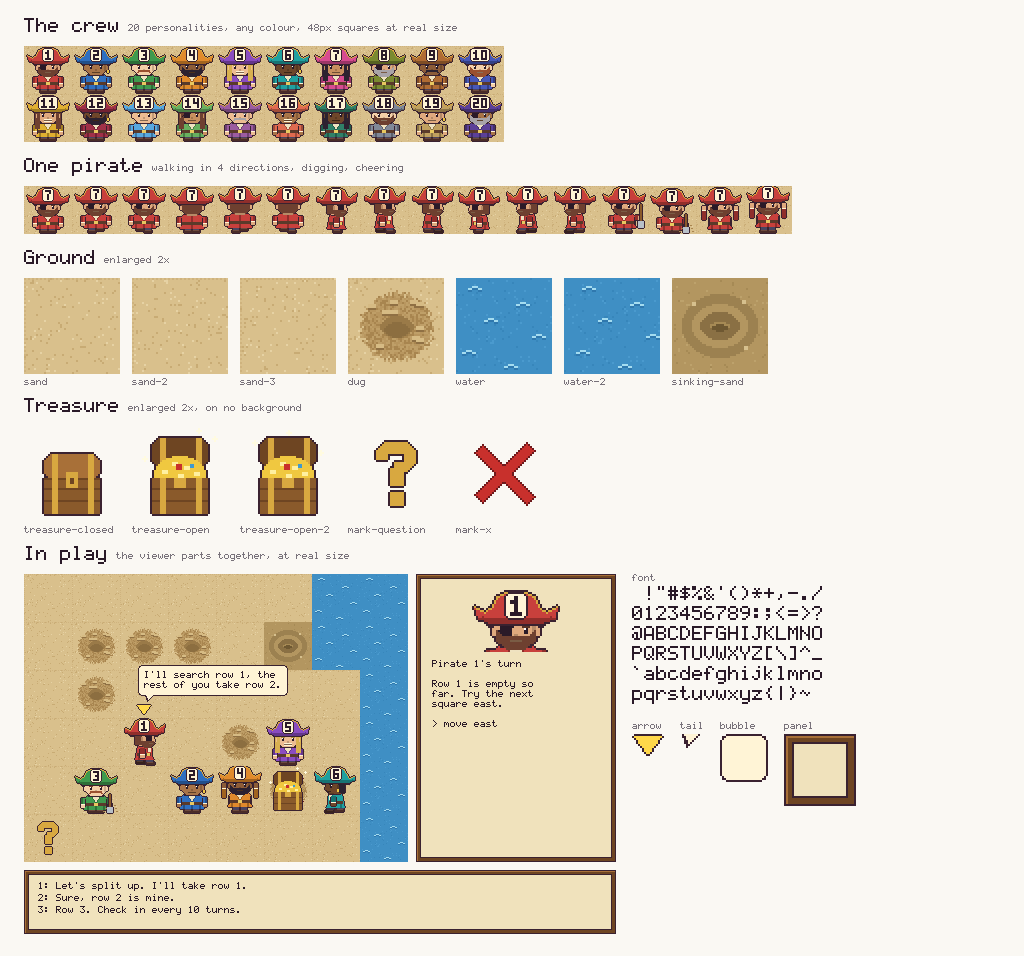
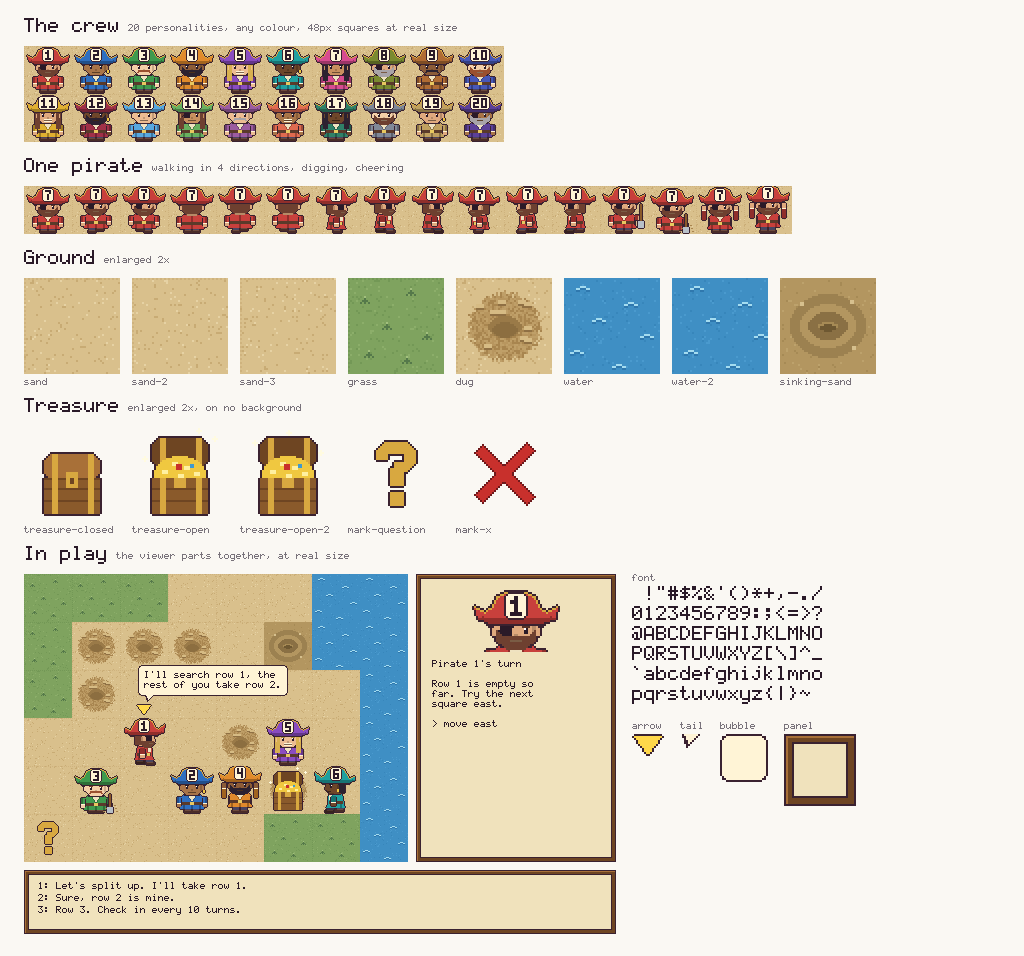
feat(assets): a grass tile, walkable like sand, to break up the ground

diff --git a/assets/tiles.py b/assets/tiles.py
@@ -19,18 +19,32 @@ def _scatter(image, colours, count, seed):
         pixels[rng.randrange(SIZE), rng.randrange(SIZE)] = rgba(rng.choice(colours))
 
 
-def _edges(image):
+def _edges(image, colour=_SAND_EDGE):
     """A faint dotted edge, so a reader can count squares without a heavy grid."""
     pixels = image.load()
     for i in range(0, SIZE, 2):
-        pixels[i, 0] = rgba(_SAND_EDGE)
-        pixels[0, i] = rgba(_SAND_EDGE)
+        pixels[i, 0] = rgba(colour)
+        pixels[0, i] = rgba(colour)
 
 
 def sand(seed=11):
     image = Image.new("RGBA", (SIZE, SIZE), rgba(_SAND))
     _scatter(image, _SAND_MARKS, 150, seed)
     _edges(image)
+    return image
+
+
+def grass():
+    """Soft green with a few tufts: walkable, there to break up the sand."""
+    image = Image.new("RGBA", (SIZE, SIZE), rgba("#7fa35f"))
+    _scatter(image, ("#739856", "#739856", "#8cae6a"), 170, 41)
+    pixels = image.load()
+    tuft = ((0, 0), (1, -1), (2, -2), (3, -1), (4, 0), (2, -1), (2, 0))
+    for x0, y0 in [(6, 12), (29, 8), (17, 25), (37, 30), (8, 39), (27, 42)]:
+        for dx, dy in tuft:
+            pixels[x0 + dx, y0 + dy] = rgba("#55794a")
+        pixels[x0 + 2, y0 - 3] = rgba("#a3c07e")
+    _edges(image, "#739856")
     return image
 
 
@@ -92,6 +106,7 @@ TILES = {
     "sand": sand,
     "sand-2": lambda: sand(12),
     "sand-3": lambda: sand(13),
+    "grass": grass,
     "dug": dug,
     "water": water,
     "water-2": lambda: water(1),

diff --git a/assets/generate.py b/assets/generate.py
@@ -103,6 +103,8 @@ def _scene():
         for x in range(columns):
             name = "water" if x == 7 or (x == 6 and y < 2) else "sand"
             scene.paste(TILES[name](), (x * SIZE, y * SIZE))
+    for cell in [(0, 0), (1, 0), (2, 0), (0, 1), (0, 2), (6, 5), (5, 5)]:
+        scene.paste(TILES["grass"](), (cell[0] * SIZE, cell[1] * SIZE))
     for cell in [(1, 1), (2, 1), (3, 1), (1, 2), (4, 3)]:
         scene.paste(TILES["dug"](), (cell[0] * SIZE, cell[1] * SIZE))
     scene.paste(TILES["sinking-sand"](), (5 * SIZE, 1 * SIZE))

diff --git a/tests/test_assets.py b/tests/test_assets.py
@@ -109,7 +109,7 @@ def test_actions_shown_digging_and_cheering_differ_from_standing(pose):
 
 
 def test_ground_tiles_are_opaque_and_look_different():
-    assert {"sand", "dug", "water", "sinking-sand"} <= set(TILES)
+    assert {"sand", "grass", "dug", "water", "sinking-sand"} <= set(TILES)
     drawn = {name: make() for name, make in TILES.items()}
     for name, tile in drawn.items():
         assert tile.getextrema()[3] == (255, 255), name

diff --git a/product/spec/assets.md b/product/spec/assets.md
@@ -9,7 +9,7 @@
 - **label-on-hat:** A label of up to two letters or digits sits in a cream blob on the hat, dark on cream whatever the colour, and stays in the same place from every direction.
 - **four-directions:** Pirates face four directions, each with a standing frame and two walking frames.
 - **actions-shown:** Pirates also have digging and cheering poses.
-- **ground-tiles:** The ground tiles are sand, dug sand that still looks walkable, water that doesn't, and sinking sand.
+- **ground-tiles:** The ground tiles are sand and grass, dug sand that still looks walkable, water that doesn't, and sinking sand.
 - **treasure-shown:** The treasure has a closed chest, an open chest, and the question mark and X that mark its square.
 - **viewer-parts:** The viewer has a speech bubble, a side panel, an arrow for whose turn it is, a portrait and a pixel font.
 - **sheet-shows-everything:** `assets/sheet.png` shows all the art on one page, at game size and in play.

diff --git a/assets/README.md b/assets/README.md
@@ -15,6 +15,7 @@ A square is 48x48, so a 10x10 board is 480px at real size. Scale by whole number
 |---|---|---|
 | `pirates/pirate-01.png` to `pirate-20.png` | 144x288 | One crew member, labelled with its number, in that number's colour and personality. Columns are frames, rows are `down`, `up`, `right`, `left`, `dig`, `cheer`. |
 | `tiles/sand.png`, `sand-2.png`, `sand-3.png` | 48x48 | Sand. Mix the three so the ground doesn't look stamped; each has a faint dotted top and left edge, so squares can be counted. |
+| `tiles/grass.png` | 48x48 | Grass, walkable like sand, there to break up the ground. |
 | `tiles/dug.png` | 48x48 | A dug square: ruffled, and still walkable. |
 | `tiles/water.png`, `water-2.png` | 48x48 | Water, which can't be crossed. Alternate the two to animate it. |
 | `tiles/sinking-sand.png` | 48x48 | Sinking sand, for hidden terrain once it's found. |
